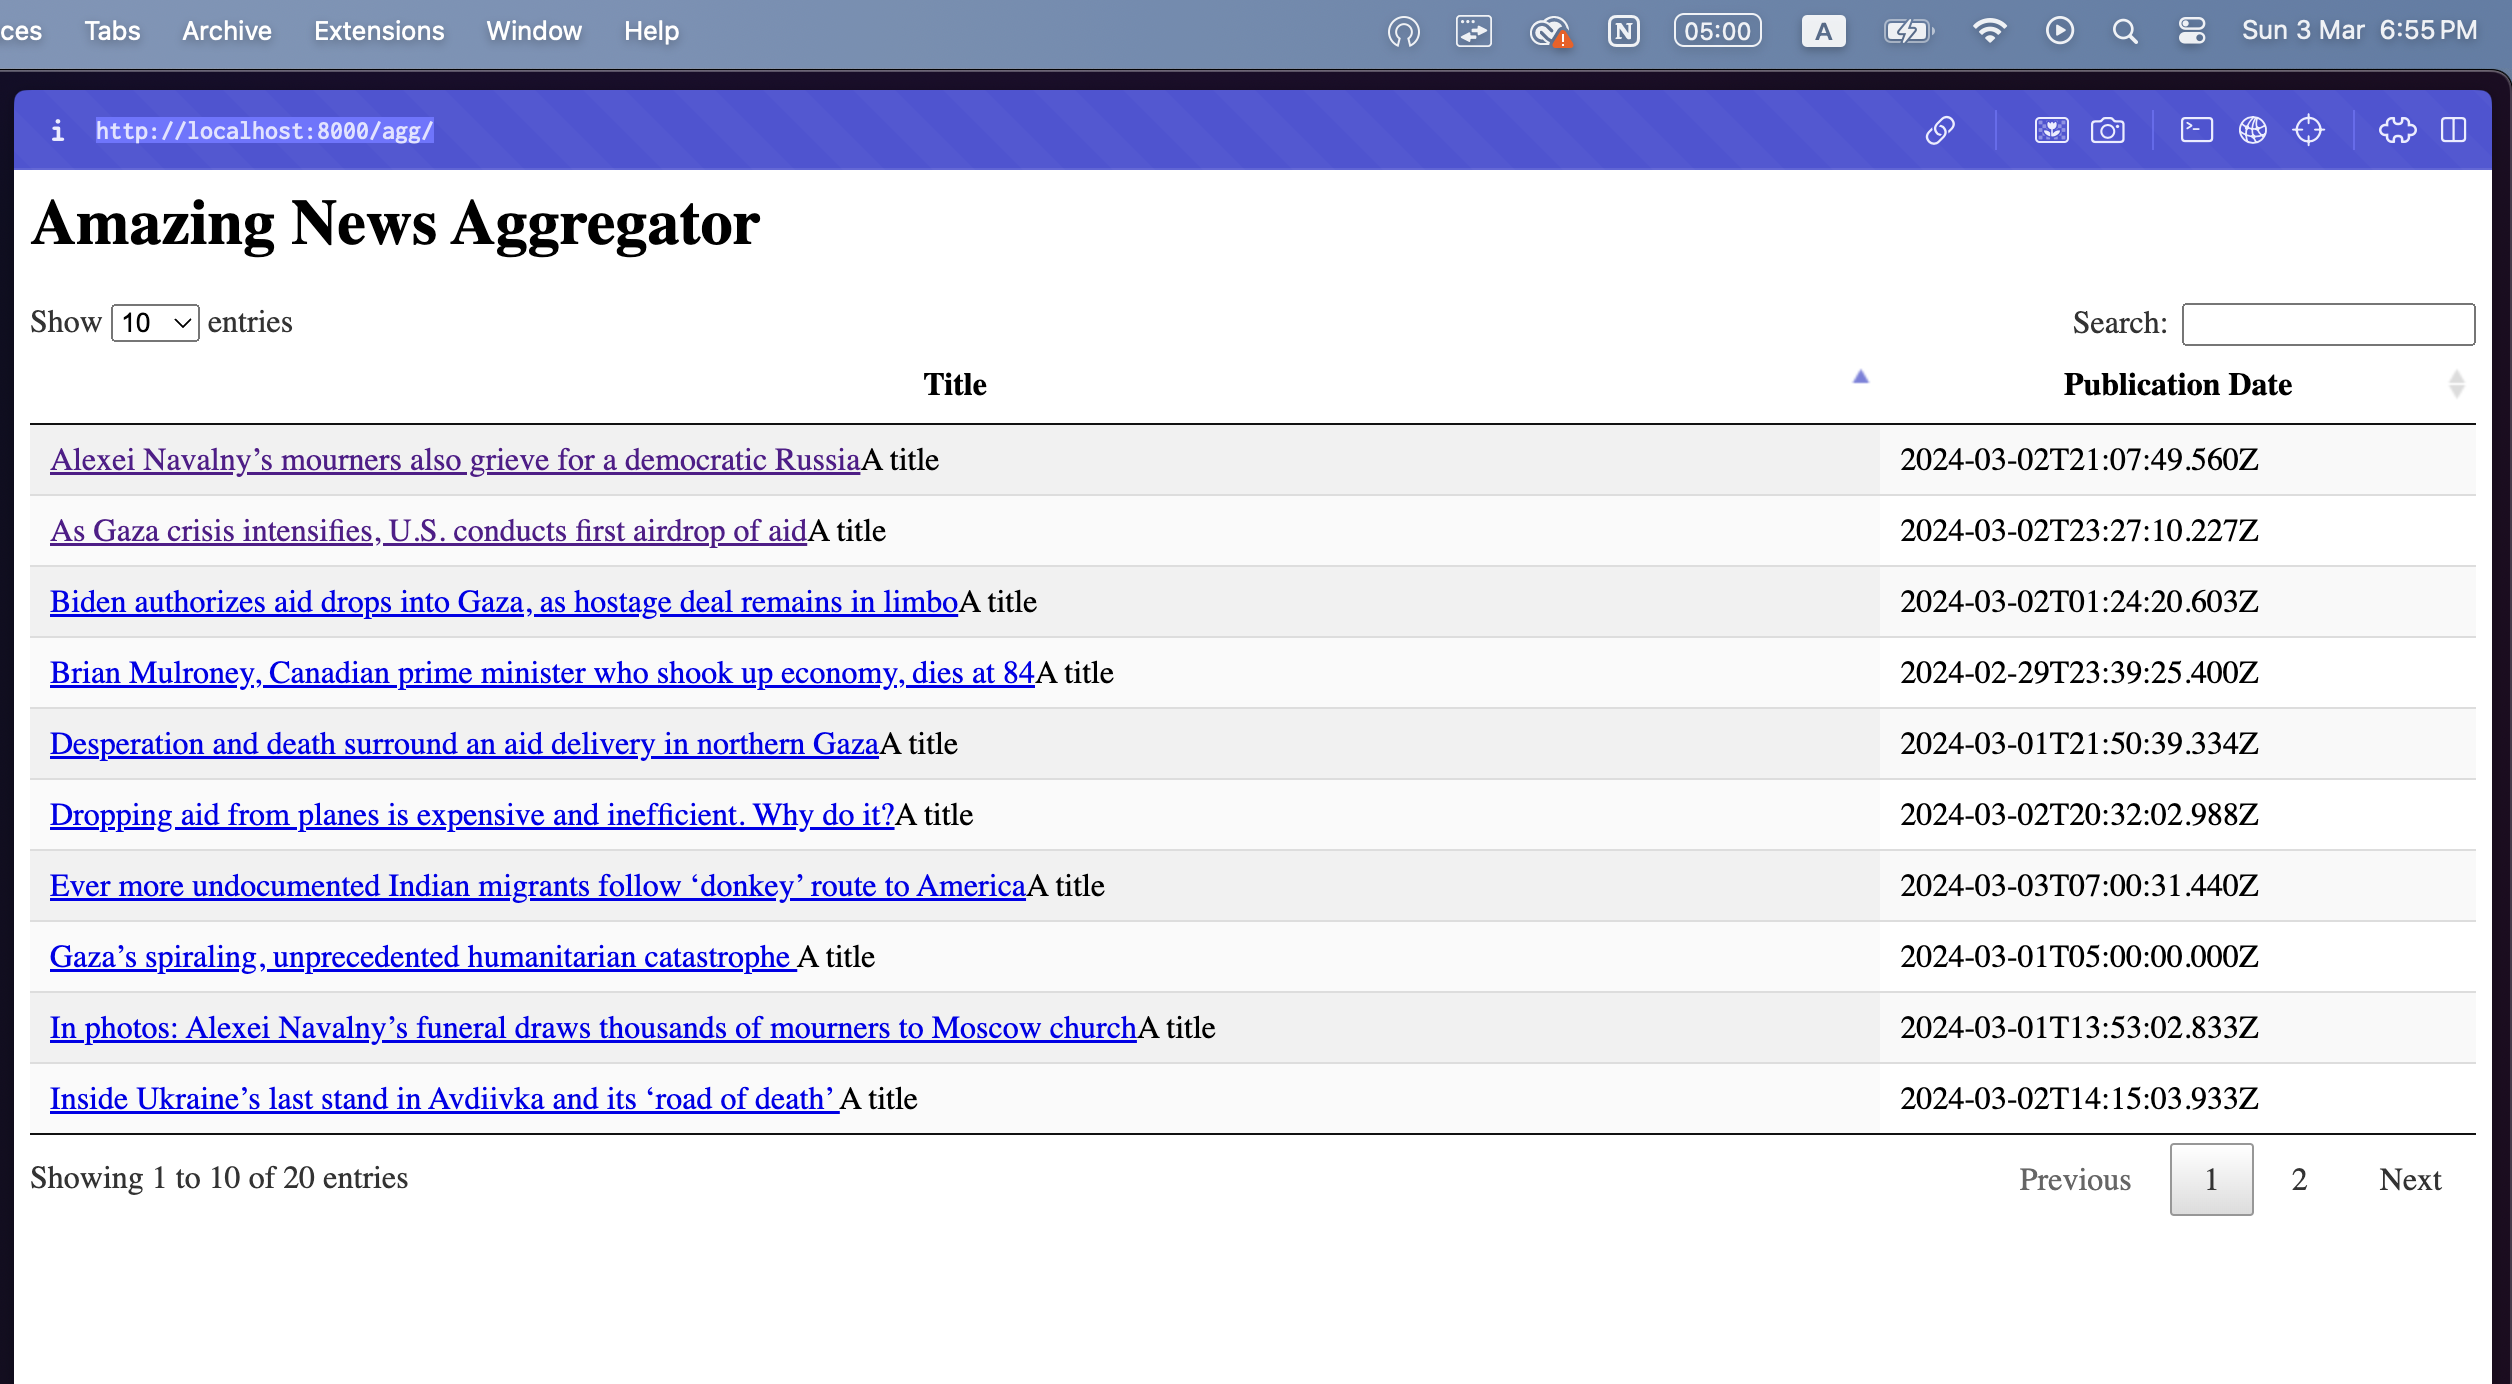
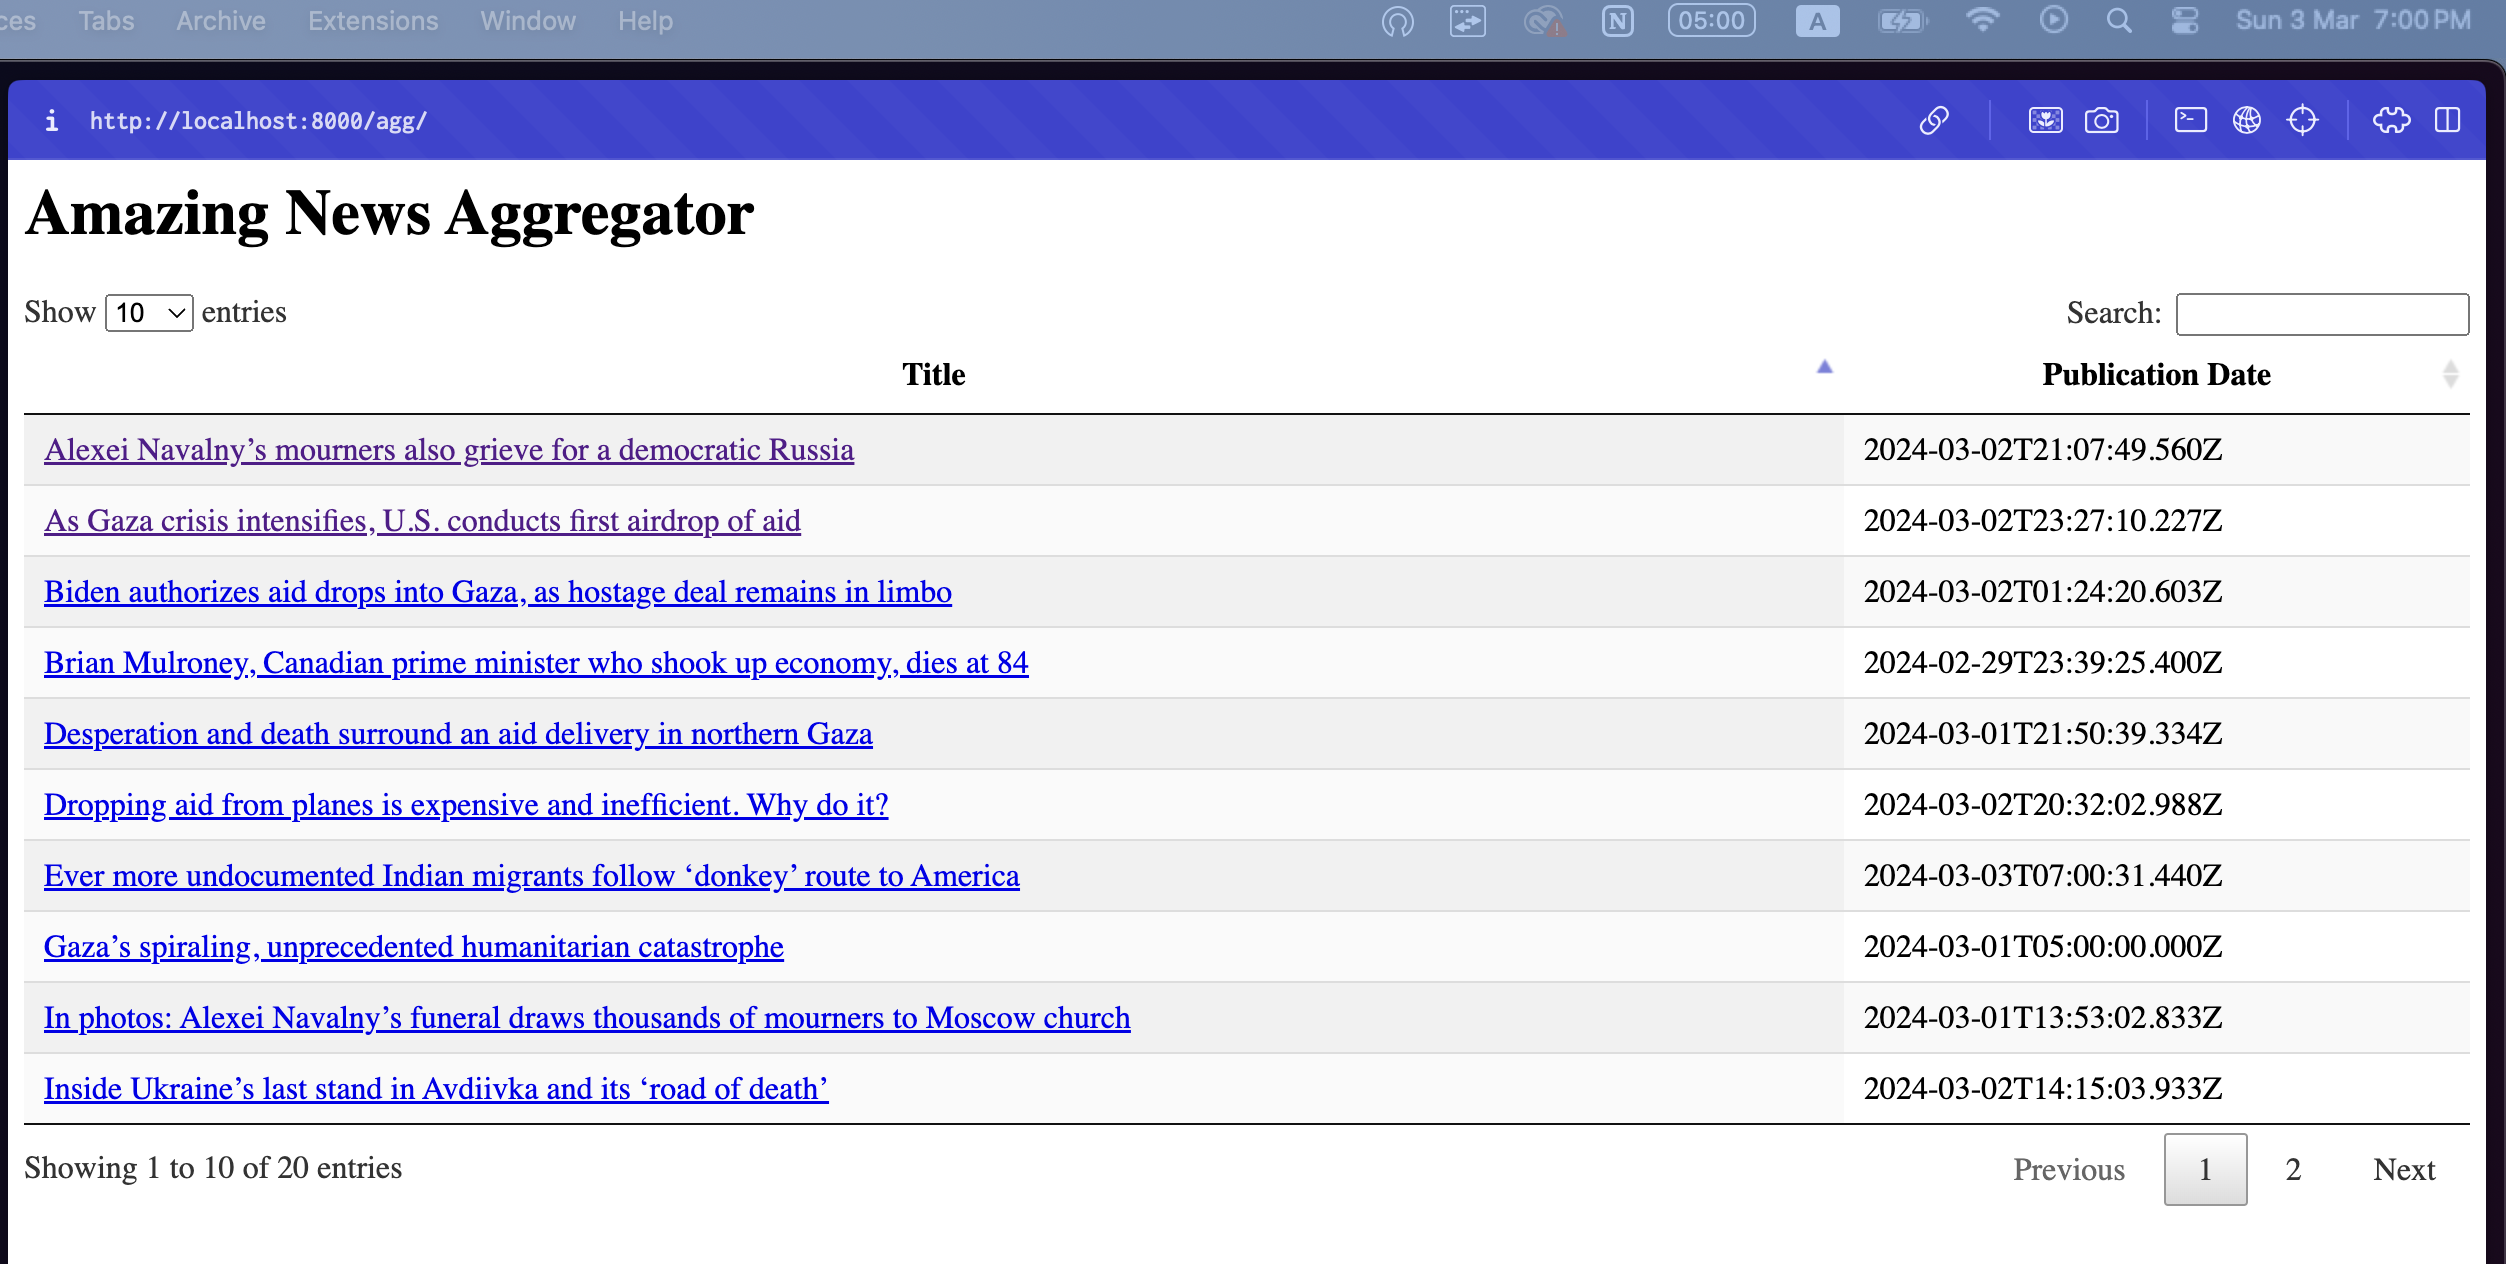
learn goooooo

diff --git a/newsaggtemplate.html b/newsaggtemplate.html
@@ -14,7 +14,7 @@
   <tbody>
     {{ range $key, $value:= .News }}
       <tr>
-        <td><a href="{{$value.Location}}" target="_blank">{{ $key }}</a>A title</td>
+        <td><a href="{{$value.Location}}" target="_blank">{{ $key }}</a></td>
         <td>{{ $value.PublicationDate }}</td>
       </tr>
     {{ end }}
